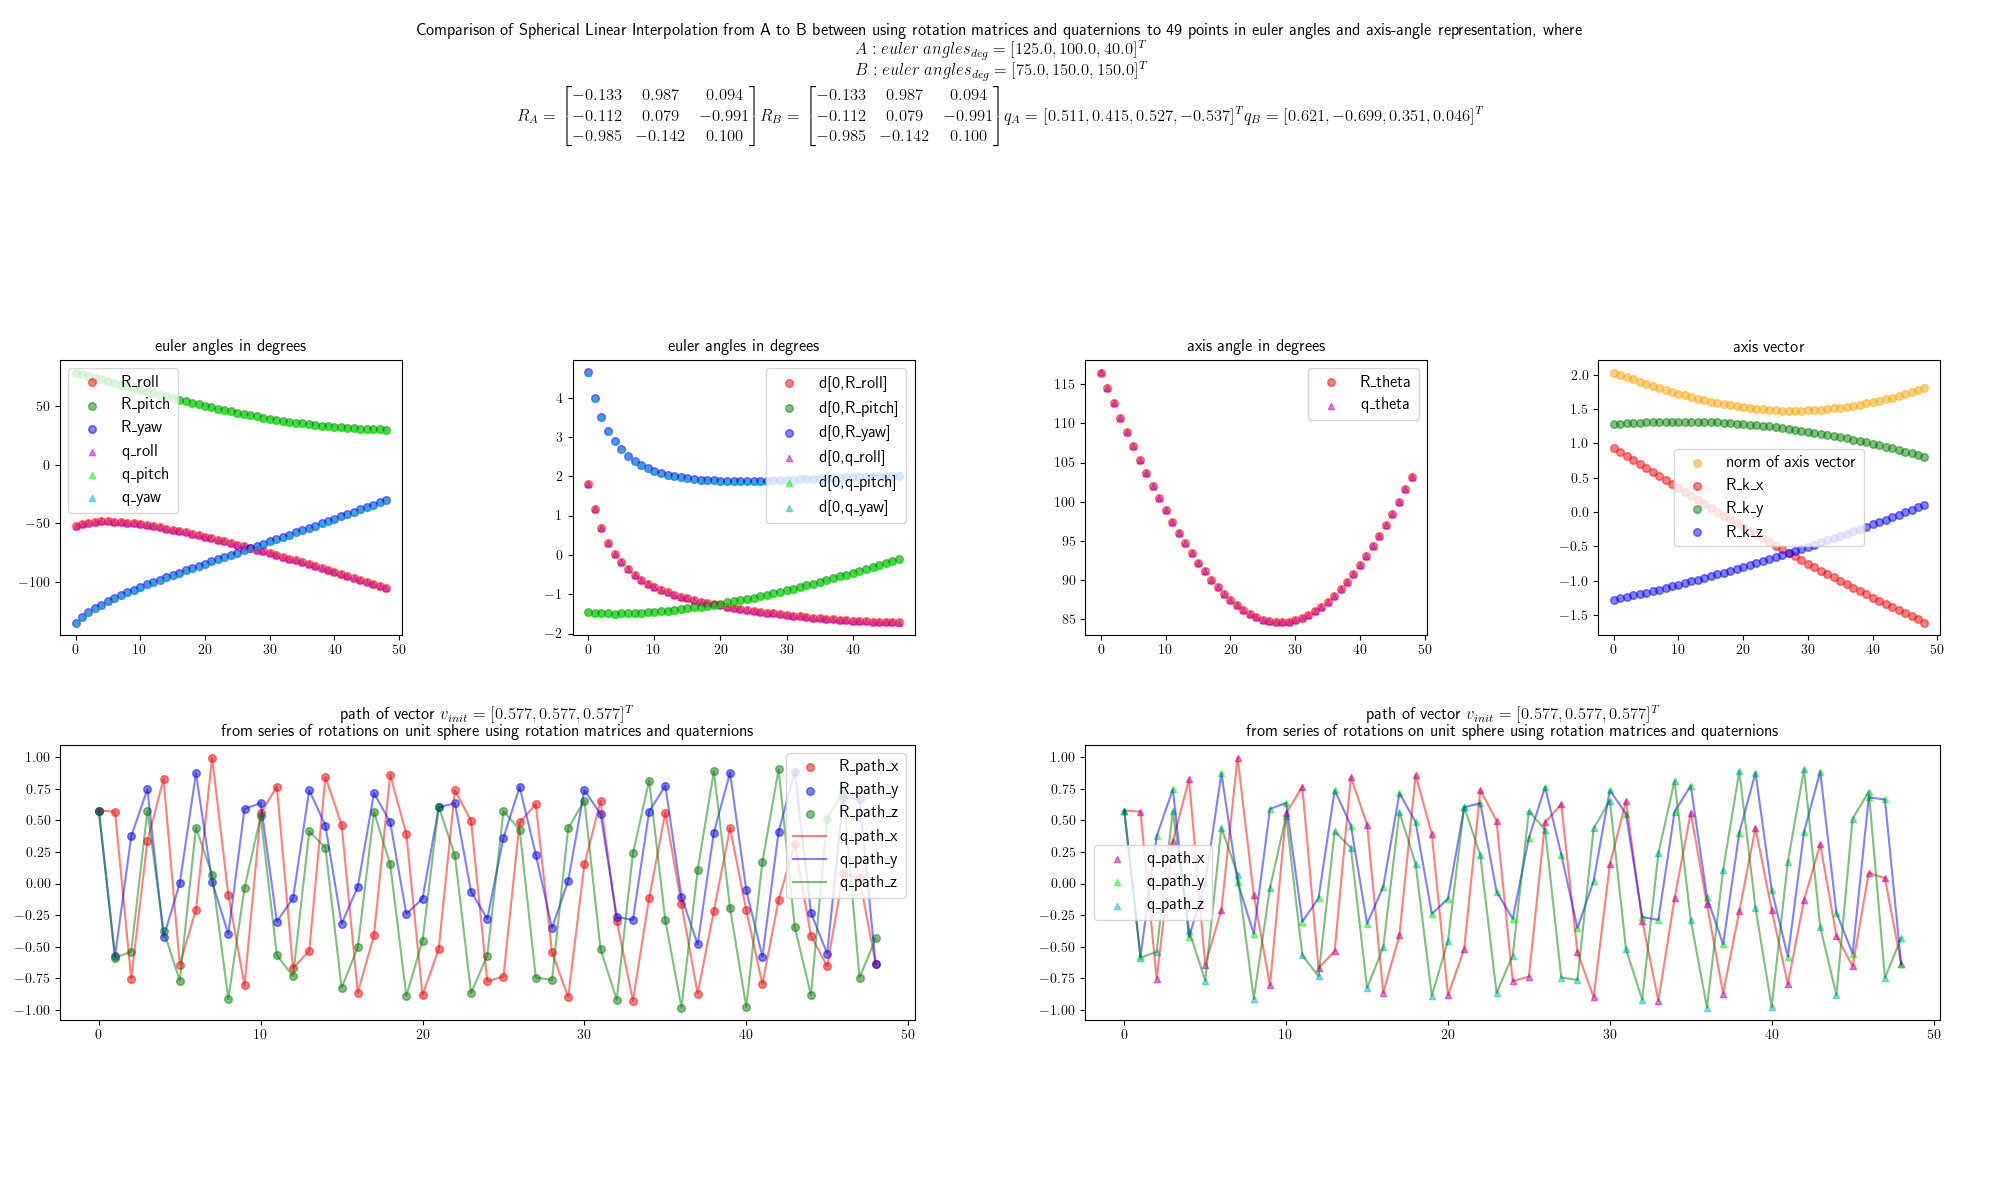
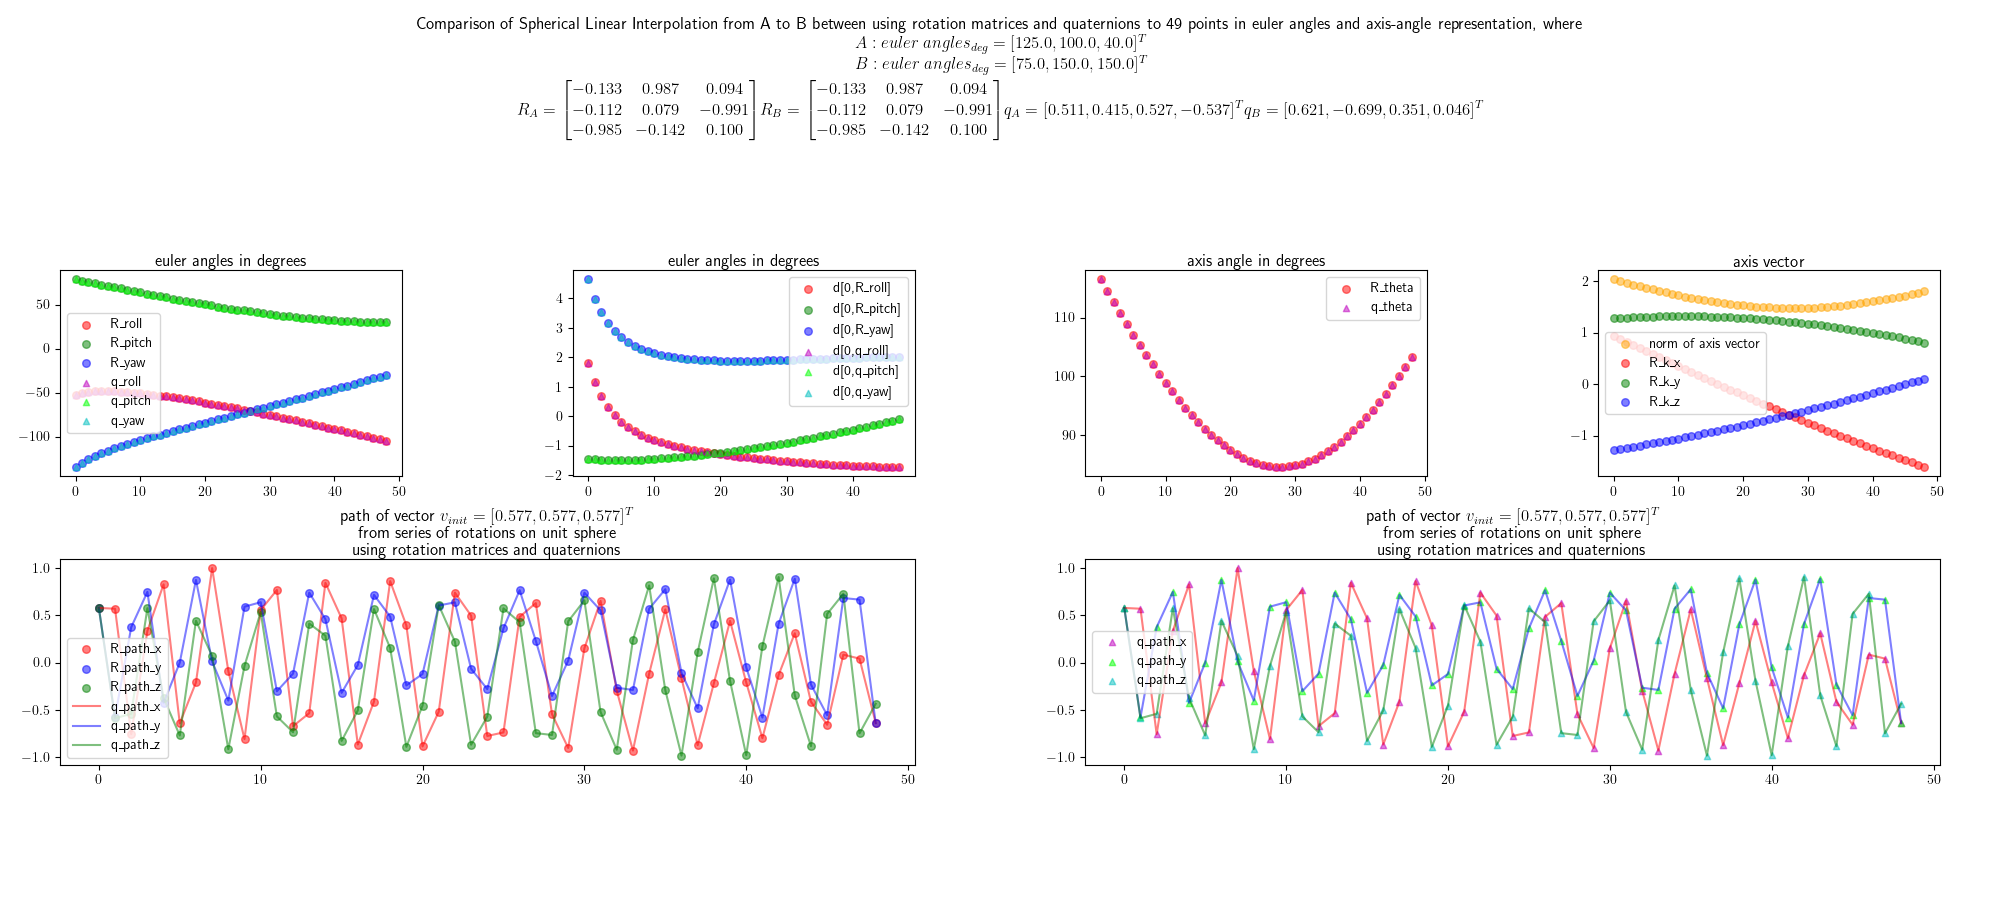
Finished adding final details to the figures for analysis. Now, actually moving on for the jacobians.

diff --git a/scripts/visualizer.py b/scripts/visualizer.py
@@ -28,7 +28,8 @@ def visualize(init_conditions: tuple, Rs_interp: list, qs_interp: list, draw_3d:
     ### MPL Formatting
     mpl.rcParams['text.usetex'] = True
     mpl.rcParams['text.latex.preamble'] = r'\usepackage{{amsmath}}'
-    mpl.rcParams['legend.fontsize'] = 12
+    mpl.rcParams['legend.fontsize'] = 10
+    mpl.rcParams['axes.titlepad'] = -10
     #mpl.rcParams['lines.linewidth'] = 1
     #mpl.rcParams['lines.linestyle'] = 'dashdot'
     
@@ -39,9 +40,10 @@ def visualize(init_conditions: tuple, Rs_interp: list, qs_interp: list, draw_3d:
     q1 = init_conditions[4]
     q2 = init_conditions[5]
     v_init = init_conditions[6]
-    path_title = r'path of vector $v_{init} =  [%.3f, %.3f, %.3f]^T$'%(v_init[0], v_init[1], v_init[2])+'\nfrom series of rotations on unit sphere using rotation matrices and quaternions'
+    path_title = r'path of vector $v_{init} =  [%.3f, %.3f, %.3f]^T$'%(v_init[0], v_init[1], v_init[2])+'\nfrom series of rotations on unit sphere\nusing rotation matrices and quaternions'
+    axis_ang_title = 'axis angle vector of the rotations\nfrom slerp using rotations matrices and quaternions'
 
-    f, axs = plt.subplots(2,4,figsize=(20,12))
+    f, axs = plt.subplots(2,4,figsize=(20,9))
     plt.subplots_adjust(left=0.03,bottom=0.15,right=0.97,top=0.7,wspace=0.5,hspace=0.4)
     suptitle = f'Comparison of Spherical Linear Interpolation from A to B between using rotation matrices and quaternions to {len(Rs_interp)} points in euler angles and axis-angle representation, '+'where\n' 
     suptitle += r'$A : euler\ angles_{deg} = [%.1f, %.1f, %.1f]^T$'%(euler_angles_deg1[0], euler_angles_deg1[1], euler_angles_deg1[2])+'\n'
@@ -189,11 +191,11 @@ def visualize(init_conditions: tuple, Rs_interp: list, qs_interp: list, draw_3d:
     if draw_3d:
         sphere_x, sphere_y, sphere_z = draw_sphere(100)
         #f3d, ax3ds = plt.subplots(1,2,figsize=(20,12))
-        f3d = plt.figure(figsize=(10,10))
+        f3d = plt.figure(figsize=(20,9))
         f3d.suptitle(suptitle)
         ax3d_0 = f3d.add_subplot(1, 2, 1, projection='3d')
         ax3d_1 = f3d.add_subplot(1, 2, 2, projection='3d')
-        plt.subplots_adjust()
+        plt.subplots_adjust(left=0.03,bottom=0.02,right=0.97,top=0.76,wspace=0.1,hspace=0.4)
        
         ax3d_0.scatter3D(R_paths_x, R_paths_y, R_paths_z, marker='o', s=30, c='r', alpha=0.8)
         ax3d_0.scatter3D(q_paths_x, q_paths_y, q_paths_z, marker='^', s=20, c='g', alpha=0.8)
@@ -210,13 +212,13 @@ def visualize(init_conditions: tuple, Rs_interp: list, qs_interp: list, draw_3d:
         ax3d_1.scatter3D(sphere_x, sphere_y, sphere_z, marker='.', s=3, c='c', alpha=0.3)
         #ax3d_1.legend(('R_ks', 'normalized R_ks', 'q_ks', 'normalized q_ks', 'unit sphere'))
         ax3d_1.legend(('R_ks', 'q_ks', 'unit sphere'))
+        ax3d_1.set_title(axis_ang_title)
         for (k_x, k_y, k_z, k_norm) in zip(R_ks_x, R_ks_y, R_ks_z, R_ks_norm):
             ax3d_1.plot3D([0,k_x],[0,k_y],[0,k_z], c='r', linewidth=1, alpha=0.5)
             #ax3d_1.plot3D([0,k_x/k_norm],[0,k_y/k_norm],[0,k_z/k_norm], c='g', linewidth=1, alpha=0.5)
         for (k_x, k_y, k_z, k_norm) in zip(q_ks_x, q_ks_y, q_ks_z, q_ks_norm):
             ax3d_1.plot3D([0,k_x],[0,k_y],[0,k_z], c='m', linewidth=1, alpha=0.5)
             #ax3d_1.plot3D([0,k_x/k_norm],[0,k_y/k_norm],[0,k_z/k_norm], c='lime', linewidth=1, alpha=0.5)
-            
         plt.savefig(f'R_q_slerp_comparison_3d_{fig_idx}.png')
 
 def compute_and_visualize(euler_angles_deg1: np.ndarray, euler_angles_deg2: np.ndarray, n_interp: int, v_init: np.ndarray, draw_3d: bool, fig_idx: int):
